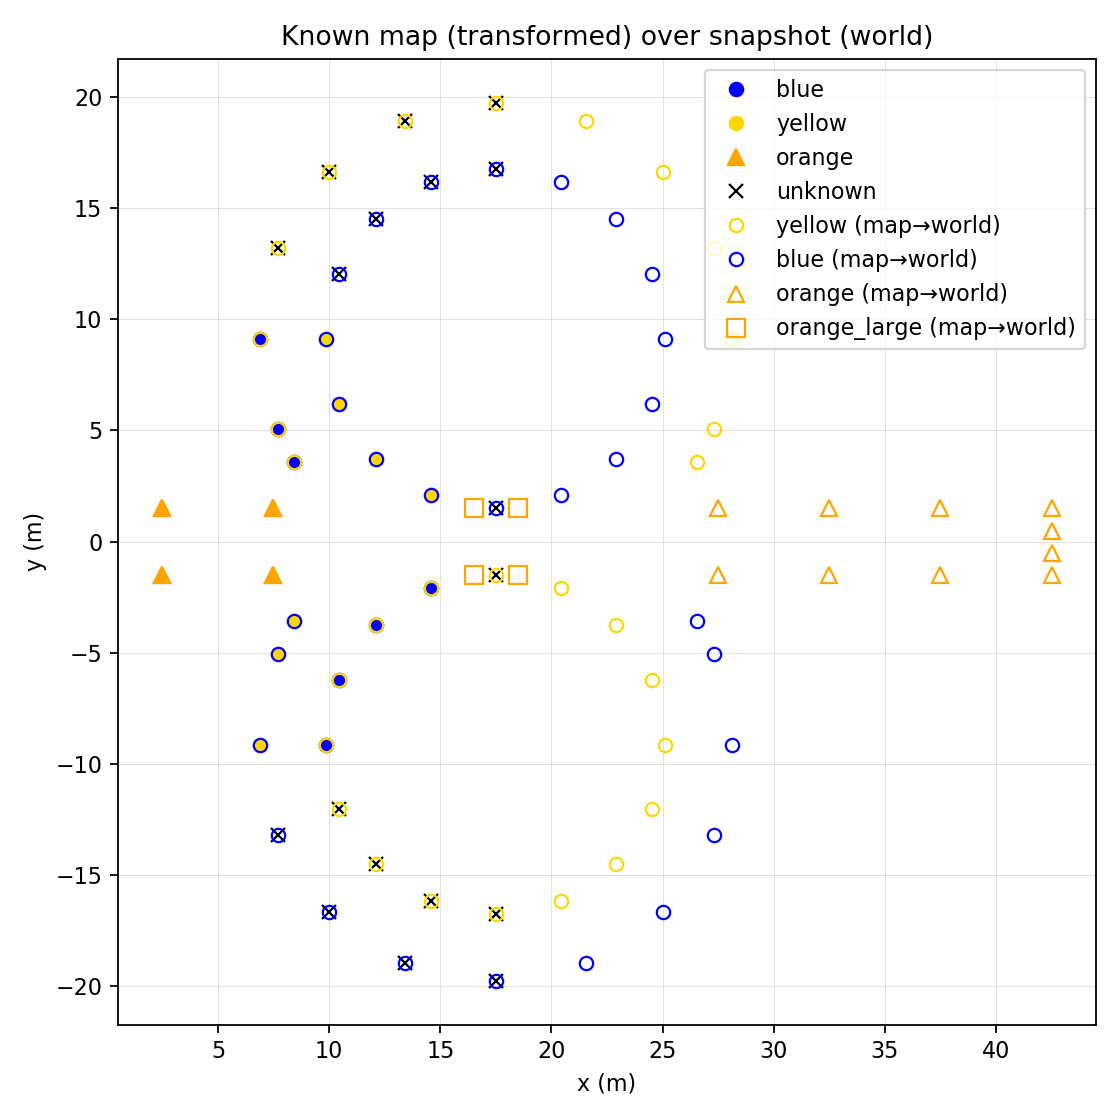
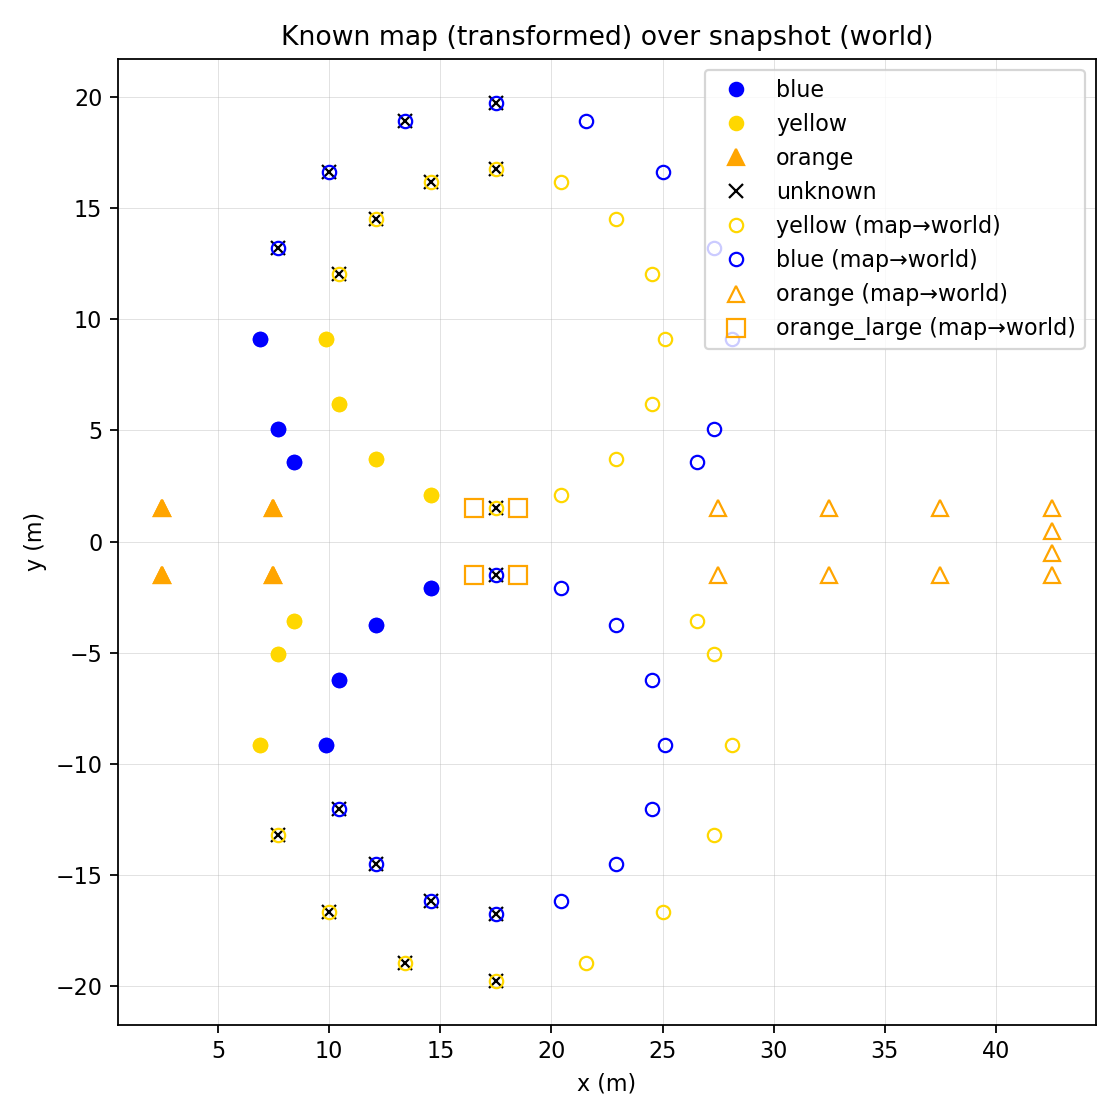
Add robust colour matching to alignment

diff --git a/src/fslam_base/fslam_base/slam_utils/align_map.py b/src/fslam_base/fslam_base/slam_utils/align_map.py
@@ -1,12 +1,7 @@
 #!/usr/bin/env python3
-# yaw_icp_obs_all.py
-# Step-1 anchor kept. SIMPLE yaw-only ICP where:
-#   • Translation is ALWAYS pinned to the start-box centroid.
-#   • Correspondences: OBSERVED → nearest TRANSFORMED KNOWN (every observed must match).
-#   • Rotation via Kabsch on chosen pairs (map-frame A -> world-frame B).
-#   • Hard gate: ALL observed NN error ≤ RADIUS_REQ to declare success.
-#   • If the loop STALLS (dθ < YAW_EPS_RAD but max_err > RADIUS_REQ), do a ONE-TIME π-FLIP
-#     (yaw += π), re-pin t, and continue iterations.
+# align_map_with_flips_and_colorcheck.py
+# Step-1 anchor (translation pin), yaw-only ICP (obs→NN map), iterative π-flip trials,
+# then an independent color-overlap check with optional y-axis flip (map pre-flip).
 
 import csv, json, math, itertools
 from pathlib import Path
@@ -32,9 +27,17 @@ ROI_X_ABS_MAX = 2.0
 
 # ICP (yaw-only)
 MAX_ITERS     = 20
-RADIUS_REQ    = 0.80     # hard requirement for ALL observed at convergence
-YAW_EPS_RAD   = 1e-3     # ~0.057°
-RANGE_GATE_M  = 60.0     # generous gate around start (WORLD)
+RADIUS_REQ    = 0.80     # ALL observed must be ≤ this to declare success
+YAW_EPS_RAD   = 1e-3     # stall threshold (~0.057°)
+RANGE_GATE_M  = 60.0     # gate around start (WORLD)
+
+# π-flip trials (toggle basin repeatedly; keep best)
+N_FLIP_TRIALS = 3        # try initial + 2 flips = 3 basins; increase if you want
+
+# Color overlap check (independent)
+COLOR_MATCH_RADIUS = 1.0     # meters for color NN check
+COLOR_MIN_FRAC     = 0.60    # require at least 60% colored obs to match right color
+# Side rule is not enforced here; we only check color identity via NN.
 
 # ---------------- Columns & colors ----------------
 X_KEYS = ["x", "x_m", "x_meter", "xcoord"]
@@ -155,7 +158,7 @@ def icp_yaw_obs_all(R_init, t_init, known_rows, snap_rows, A4_map, B4_snap):
       5) Hard gate: ALL observed NN distances ≤ RADIUS_REQ to declare success.
       6) STALL rule: if dθ < YAW_EPS_RAD while max_err > RADIUS_REQ → ONE-TIME π-FLIP (yaw += π),
          re-pin t, continue.
-    Returns: R, t, ok_flag, final_errors (per-observed NN distances over FULL snapshot)
+    Returns: R, t, ok_flag, ds_all_full (NN errors for FULL snapshot)
     """
     R = np.array(R_init, float); t = np.array(t_init, float)
     c_map  = np.mean(A4_map, axis=0)
@@ -172,7 +175,6 @@ def icp_yaw_obs_all(R_init, t_init, known_rows, snap_rows, A4_map, B4_snap):
 
     prev_yaw = yaw_from_R(R)
     flipped_once = False
-    final_errors = None
 
     for it in range(MAX_ITERS):
         # map→world
@@ -200,17 +202,15 @@ def icp_yaw_obs_all(R_init, t_init, known_rows, snap_rows, A4_map, B4_snap):
 
         # measure hard-gate metrics on gated set
         M_world = (M_map @ R.T) + t
-        ds_all = np.linalg.norm(M_world[:,None,:] - Y_obs[None,:,:], axis=2).min(axis=0)
-        max_dist = float(np.max(ds_all))
-        med_dist = float(np.median(ds_all))
-        p95_dist = float(np.percentile(ds_all, 95))
-
+        ds_gate = np.linalg.norm(M_world[:,None,:] - Y_obs[None,:,:], axis=2).min(axis=0)
+        max_dist = float(np.max(ds_gate))
+        med_dist = float(np.median(ds_gate))
+        p95_dist = float(np.percentile(ds_gate, 95))
         print(f"[iter {it:02d}] yaw={math.degrees(cur_yaw):.3f}°, max={max_dist:.3f}m, med={med_dist:.3f}m, p95={p95_dist:.3f}m")
 
-        final_errors = ds_all.tolist()
-        # success
+        # success?
         if (max_dist <= RADIUS_REQ) and (dtheta < YAW_EPS_RAD):
-            return R, t, True, final_errors
+            break
 
         # STALL → ONE-TIME π-FLIP and continue
         if (dtheta < YAW_EPS_RAD) and (max_dist > RADIUS_REQ) and (not flipped_once):
@@ -224,12 +224,105 @@ def icp_yaw_obs_all(R_init, t_init, known_rows, snap_rows, A4_map, B4_snap):
 
         prev_yaw = cur_yaw
 
-    # final check after loop (report over FULL snapshot)
+    # final errors over FULL snapshot for reporting / ranking
     M_world = (M_map @ R.T) + t
     ds_all_full = np.linalg.norm(M_world[:,None,:] - Y_obs_full[None,:,:], axis=2).min(axis=0)
-    final_errors = ds_all_full.tolist()
     ok = (float(np.max(ds_all_full)) <= RADIUS_REQ) and (ds_all_full.shape[0] == Y_obs_full.shape[0])
-    return R, t, ok, final_errors
+    return R, t, ok, ds_all_full
+
+# ---------------- Trials manager (iterative π flips; pick best) ----------------
+def run_flip_trials(R0, t0, known_rows, snap_rows, A4_map, B4_snap):
+    c_map  = np.mean(A4_map, axis=0)
+    c_snap = np.mean(B4_snap, axis=0)
+
+    trials = []
+    R_seed = np.array(R0); t_seed = np.array(t0)
+
+    for k in range(N_FLIP_TRIALS):
+        print(f"\n=== Flip trial {k+1}/{N_FLIP_TRIALS} ===")
+        Rk, tk, ok, ds = icp_yaw_obs_all(R_seed, t_seed, known_rows, snap_rows, A4_map, B4_snap)
+        max_e = float(np.max(ds)); med_e = float(np.median(ds)); mean_e = float(np.mean(ds))
+        p95_e = float(np.percentile(ds, 95))
+        trials.append({
+            "R": Rk, "t": tk, "ok": bool(ok),
+            "max": max_e, "med": med_e, "mean": mean_e, "p95": p95_e, "ds": ds
+        })
+        # toggle basin for next trial
+        R_seed = R_seed @ (-np.eye(2))
+        t_seed = pin_translation(R_seed, c_map, c_snap)
+
+    # pick best by minimal max error (then p95 as tie-break)
+    trials.sort(key=lambda d: (d["max"], d["p95"], d["mean"]))
+    best = trials[0]
+    print(f"\n=== Best of {N_FLIP_TRIALS} trials ===")
+    print(f"max={best['max']:.3f} m, p95={best['p95']:.3f} m, med={best['med']:.3f} m, mean={best['mean']:.3f} m, ok={best['ok']}")
+    return best
+
+# ---------------- Color overlap check (+ optional y-axis map flip) ----------------
+def color_overlap_fraction(R, t, known_rows, snap_rows, radius=COLOR_MATCH_RADIUS):
+    # transform known map
+    M = np.array([[r["x"], r["y"]] for r in known_rows], float)
+    Ck = [r["color"] for r in known_rows]
+    M_w = (M @ R.T) + t
+
+    obs_colored = [r for r in snap_rows if r["color"] in ("blue","yellow","orange","orange_large")]
+    if not obs_colored:
+        return 1.0, 0  # nothing to test
+
+    Y  = np.array([[r["x"], r["y"]] for r in obs_colored], float)
+    Co = [r["color"] for r in obs_colored]
+
+    ok = 0
+    for j, y in enumerate(Y):
+        ds = np.linalg.norm(M_w - y, axis=1)
+        i = int(np.argmin(ds))
+        if ds[i] <= radius and Ck[i] == Co[j]:
+            ok += 1
+    return ok / len(obs_colored), len(obs_colored)
+
+def try_y_axis_flip_if_color_bad(best, A4_map, B4_snap, known_rows, snap_rows):
+    """
+    If color overlap is below threshold, pre-flip map about y-axis:
+      This is equivalent to R' = R @ Fy, t' = pin_translation(R', c_map, c_snap),
+      where Fy = diag([-1, 1]) applied to MAP points prior to rotation.
+    Accept the flip only if color overlap improves AND geometric max error doesn't explode.
+    """
+    frac0, Ncol = color_overlap_fraction(best["R"], best["t"], known_rows, snap_rows)
+    print(f"\n[Color check] colored-match frac = {frac0:.2f} ({Ncol} colored obs), threshold={COLOR_MIN_FRAC:.2f}")
+
+    if Ncol == 0 or frac0 >= COLOR_MIN_FRAC:
+        return best, {"color_frac": frac0, "used_y_axis_flip": False}
+
+    # construct y-axis flip for map
+    Fy = np.diag([-1.0, 1.0])
+    c_map  = np.mean(np.array([[r["x"], r["y"]] for r in known_rows if r["color"]=="orange"
+                                and (ROI_Y_MIN <= r["y"] <= ROI_Y_MAX)
+                                and (abs(r["x"]) <= ROI_X_ABS_MAX)], float), axis=0)
+    c_snap = np.mean(B4_snap, axis=0)
+
+    R_alt = best["R"] @ Fy
+    t_alt = pin_translation(R_alt, c_map, c_snap)
+
+    # geometric errors for alt
+    M_map = np.array([[r["x"], r["y"]] for r in known_rows], float)
+    Y_obs = np.array([[r["x"], r["y"]] for r in snap_rows], float)
+    M_world_alt = (M_map @ R_alt.T) + t_alt
+    ds_alt = np.linalg.norm(M_world_alt[:,None,:] - Y_obs[None,:,:], axis=2).min(axis=0)
+    max_alt = float(np.max(ds_alt)); p95_alt = float(np.percentile(ds_alt,95)); mean_alt=float(np.mean(ds_alt)); med_alt=float(np.median(ds_alt))
+
+    frac1, _ = color_overlap_fraction(R_alt, t_alt, known_rows, snap_rows)
+    print(f"[Color check] alt (y-axis flip) colored-match frac = {frac1:.2f}; geom max={max_alt:.3f}m p95={p95_alt:.3f}m")
+
+    # Decide: require color improves and geometry not worse by > 10%
+    if (frac1 > frac0) and (max_alt <= 1.10 * best["max"]):
+        print("[Color check] Accepting y-axis flip (better color, geometry OK).")
+        return {
+            "R": R_alt, "t": t_alt, "ok": best["ok"],
+            "max": max_alt, "p95": p95_alt, "mean": mean_alt, "med": med_alt, "ds": ds_alt
+        }, {"color_frac": frac1, "used_y_axis_flip": True}
+
+    print("[Color check] Keeping original (flip not beneficial).")
+    return best, {"color_frac": frac0, "used_y_axis_flip": False}
 
 # ---------------- Plot ----------------
 def plot_overlay(snap_rows, map_rows_T, plot_path: Path):
@@ -285,25 +378,31 @@ def main():
     c_snap  = np.mean(B4_snap, axis=0)
 
     # initial R via best permutation
-    best = None
+    best_perm = None
+    best_rms  = 1e18
     for perm in itertools.permutations(range(4)):
         R0, _, rms0 = kabsch_se2(A4_map, B4_snap[list(perm)])
-        if (best is None) or (rms0 < best[0]):
-            best = (rms0, R0)
-    R = best[1]
+        if rms0 < best_rms:
+            best_rms, best_perm, R_init = rms0, perm, R0
+    R = R_init
     t = pin_translation(R, c_map, c_snap)
+    print(f"[init] yaw={math.degrees(yaw_from_R(R)):.3f}°, t=({t[0]:.3f},{t[1]:.3f}), rms(4-start)={best_rms:.3f}m")
 
-    print(f"[init] yaw={math.degrees(yaw_from_R(R)):.3f}°, t=({t[0]:.3f},{t[1]:.3f})")
+    # π-flip trials → pick best
+    best = run_flip_trials(R, t, known_rows, snap_rows, A4_map, B4_snap)
 
-    # ICP with stall-based π-flip
-    R_fin, t_fin, ok, final_errors = icp_yaw_obs_all(R, t, known_rows, snap_rows, A4_map, B4_snap)
+    # Color overlap check with optional y-axis flip (map pre-flip)
+    best2, color_meta = try_y_axis_flip_if_color_bad(best, A4_map, B4_snap, known_rows, snap_rows)
+
+    # Final reporting (FULL snapshot)
+    R_fin, t_fin = best2["R"], best2["t"]
     yaw_deg = math.degrees(yaw_from_R(R_fin))
 
-    # Final error stats (OVER FULL SNAPSHOT)
+    # Errors over FULL snapshot
     M_map = np.array([[r["x"], r["y"]] for r in known_rows], float)
+    Y_obs = np.array([[r["x"], r["y"]] for r in snap_rows], float)
     M_world = (M_map @ R_fin.T) + t_fin
-    Y_obs_full = np.array([[r["x"], r["y"]] for r in snap_rows], float)
-    ds_all_full = np.linalg.norm(M_world[:,None,:] - Y_obs_full[None,:,:], axis=2).min(axis=0)
+    ds_all_full = np.linalg.norm(M_world[:,None,:] - Y_obs[None,:,:], axis=2).min(axis=0)
 
     N_obs = ds_all_full.shape[0]
     min_e = float(np.min(ds_all_full))
@@ -317,8 +416,7 @@ def main():
     print(f"observed cones: {N_obs}")
     print(f"min: {min_e:.3f} m | median: {med_e:.3f} m | mean: {mean_e:.3f} m | p95: {p95_e:.3f} m | max: {max_e:.3f} m")
     print(f"≤ RADIUS_REQ ({RADIUS_REQ:.2f} m): {within_req}/{N_obs} cones")
-    if not ok:
-        print("[warn] Hard gate FAILED during ICP (even after possible flip). Inspect stats/overlay.")
+    print(f"Final yaw: {yaw_deg:.3f}°  |  used_y_axis_flip: {color_meta['used_y_axis_flip']}  |  color_match_frac: {color_meta['color_frac']:.2f}")
 
     # Save per-observed errors
     with open(ERR_CSV_PATH, "w", newline="") as f:
@@ -339,21 +437,25 @@ def main():
                 "radius_req": RADIUS_REQ,
                 "yaw_eps_rad": YAW_EPS_RAD,
                 "range_gate_m": RANGE_GATE_M,
-                "flip_on_stall": True
+                "flip_trials": N_FLIP_TRIALS
             },
-            "hard_gate_passed": bool(ok),
             "final_error_stats": {
                 "N_obs": N_obs, "min": min_e, "median": med_e,
                 "mean": mean_e, "p95": p95_e, "max": max_e,
                 "within_radius_req": within_req
+            },
+            "color_check": {
+                "used_y_axis_flip": color_meta["used_y_axis_flip"],
+                "match_radius": COLOR_MATCH_RADIUS,
+                "min_frac_required": COLOR_MIN_FRAC,
+                "final_match_frac": color_meta["color_frac"]
             }
         }, f, indent=2)
     print(f"Saved transform → {OUT_TRANSFORM_JSON}")
 
     # Overlay
-    all_map_xy = np.array([[r["x"], r["y"]] for r in known_rows], float)
     all_map_cols = [r["color"] for r in known_rows]
-    all_map_xy_T = all_map_xy @ R_fin.T + t_fin
+    all_map_xy_T = M_world
     map_rows_T = [{"x": float(p[0]), "y": float(p[1]), "color": c} for p, c in zip(all_map_xy_T, all_map_cols)]
     plot_overlay(snap_rows, map_rows_T, PLOT_PATH)
 
